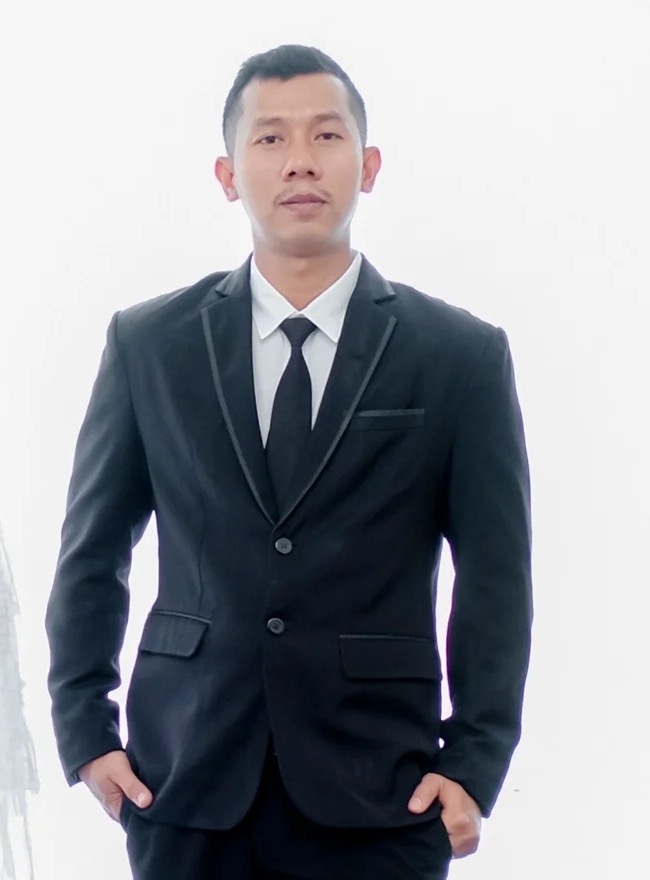
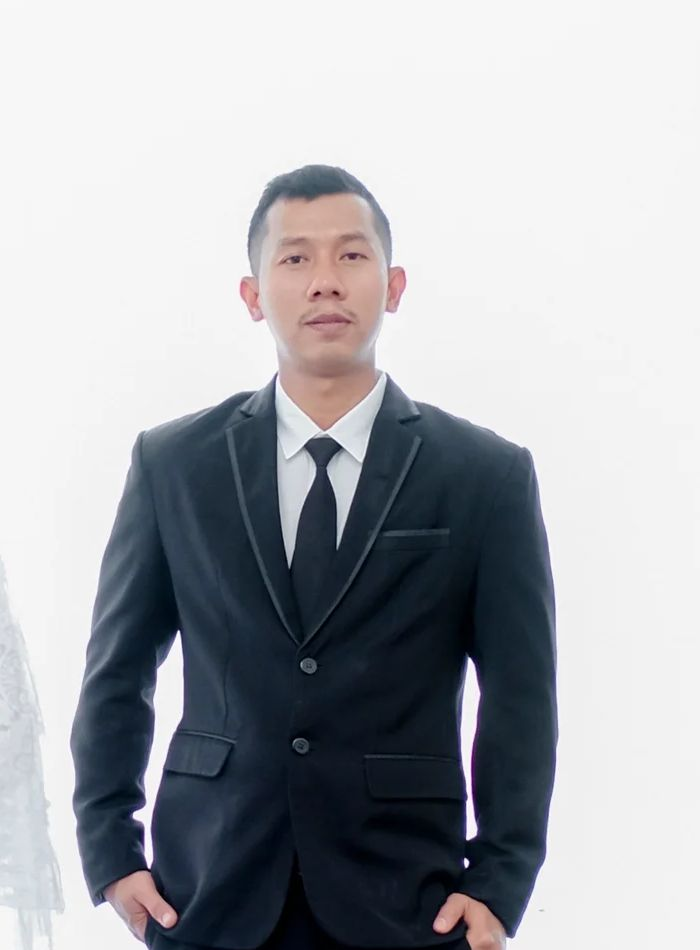
fix(ui): pixel-perfect locket heart masking, center bride portrait, and restore white dress code art

diff --git a/lib/laceAssets.ts b/lib/laceAssets.ts
@@ -21,6 +21,7 @@ export const LACE_ASSETS = {
   ourStoryPhoto: `${LACE_CDN}/our-story-oval.jpg`,
   locketLeft: `${LACE_CDN}/locket-left.jpg`,
   locketRight: `${LACE_CDN}/locket-right.jpg`,
[1 lines of base64/hex data omitted]
   
   // Cover (Click to open)
   coverComposite: `${LACE_CDN}/cover-01.png`,
@@ -34,7 +35,7 @@ export const LACE_ASSETS = {
   mountainCardHal1: `${LACE_CDN}/aset-hal1-04.png`,
   whiteRosesHal1: `${LACE_CDN}/aset-hal1-05.png`,
   heartMeshHal1: `${LACE_CDN}/aset-hal1-06.png`,
-  heartLocketHal1: `${LACE_CDN}/aset-hal1-07.png`,
+  heartLocketHal1: `${LACE_CDN}/aset-hal6-11.png`,
   
   // Page 2: Scripture Quote
   laceFrameHal2: `${LACE_CDN}/aset-hal2.png`,

diff --git a/app/components/RightSidebar.tsx b/app/components/RightSidebar.tsx
@@ -340,19 +340,30 @@ export default function RightSidebar({
 
               {/* Heart Silver Locket (Upper Right) with Couple Photos */}
               <div className="absolute top-[28%] right-[4%] w-[52%] z-20 filter drop-shadow-lg">
-                <div className="relative w-full">
+                <div className="relative w-full aspect-[3384/2028]">
                   <img
                     src={LACE_ASSETS.heartLocketHal1}
                     alt="Silver Locket"
-                    className="w-full h-auto object-contain relative z-20 pointer-events-none"
+                    className="w-full h-full object-contain relative z-20 pointer-events-none"
                   />
-                  {/* Photo in Left Heart */}
-                  <div className="absolute top-[18%] left-[11%] w-[38%] h-[68%] rounded-full overflow-hidden z-10">
-                    <img src={locketLeftImg} alt="Couple" className="w-full h-full object-cover" />
-                  </div>
-                  {/* Photo in Right Heart */}
-                  <div className="absolute top-[26%] right-[10%] w-[38%] h-[68%] rounded-full overflow-hidden z-10">
-                    <img src={locketRightImg} alt="Couple" className="w-full h-full object-cover" />
+                  {/* Photo container masked to the exact inner heart contours */}
+                  <div
+                    className="absolute inset-0 z-10 overflow-hidden"
+                    style={{
+                      WebkitMaskImage: `url(${LACE_ASSETS.locketMask})`,
+                      maskImage: `url(${LACE_ASSETS.locketMask})`,
+                      WebkitMaskSize: '100% 100%',
+                      maskSize: '100% 100%',
+                      WebkitMaskRepeat: 'no-repeat',
+                      maskRepeat: 'no-repeat',
+                    }}
+                  >
+                    <div className="absolute left-0 top-0 w-[50%] h-full">
+                      <img src={locketLeftImg} alt="Couple Left" className="w-full h-full object-cover" />
+                    </div>
+                    <div className="absolute left-[50%] top-0 w-[50%] h-full">
+                      <img src={locketRightImg} alt="Couple Right" className="w-full h-full object-cover" />
+                    </div>
                   </div>
                 </div>
               </div>
@@ -445,7 +456,7 @@ export default function RightSidebar({
                   className="absolute inset-0 w-full h-full object-contain z-20 pointer-events-none"
                 />
                 <div className="absolute inset-[15%] rounded-full overflow-hidden z-10">
-                  <img src={brideImg} alt="Andrea" className="w-full h-full object-cover" />
+                  <img src={brideImg} alt="Andrea" className="w-full h-full object-cover object-[center_20%]" />
                 </div>
               </div>
               <div className="flex flex-col text-left">
@@ -477,7 +488,7 @@ export default function RightSidebar({
                   className="absolute inset-0 w-full h-full object-contain z-20 pointer-events-none"
                 />
                 <div className="absolute inset-[15%] rounded-full overflow-hidden z-10">
-                  <img src={groomImg} alt="Daniel" className="w-full h-full object-cover" />
+                  <img src={groomImg} alt="Daniel" className="w-full h-full object-cover object-top" />
                 </div>
               </div>
             </div>
@@ -525,17 +536,29 @@ export default function RightSidebar({
             <div className="lace-pattern-top" />
 
             {/* Double Heart Silver Locket */}
-            <div className="relative w-48 sm:w-56 filter drop-shadow-xl mb-3">
+            <div className="relative w-52 sm:w-60 aspect-[3384/2028] filter drop-shadow-xl mb-3">
               <img
                 src={LACE_ASSETS.silverLocketHal5}
                 alt="Silver Locket"
-                className="w-full h-auto object-contain relative z-20 pointer-events-none"
+                className="w-full h-full object-contain relative z-20 pointer-events-none"
               />
-              <div className="absolute top-[18%] left-[11%] w-[38%] h-[68%] rounded-full overflow-hidden z-10">
-                <img src={locketLeftImg} alt="Couple" className="w-full h-full object-cover" />
-              </div>
-              <div className="absolute top-[26%] right-[10%] w-[38%] h-[68%] rounded-full overflow-hidden z-10">
-                <img src={locketRightImg} alt="Couple" className="w-full h-full object-cover" />
+              <div
+                className="absolute inset-0 z-10 overflow-hidden"
+                style={{
+                  WebkitMaskImage: `url(${LACE_ASSETS.locketMask})`,
+                  maskImage: `url(${LACE_ASSETS.locketMask})`,
+                  WebkitMaskSize: '100% 100%',
+                  maskSize: '100% 100%',
+                  WebkitMaskRepeat: 'no-repeat',
+                  maskRepeat: 'no-repeat',
+                }}
+              >
+                <div className="absolute left-0 top-0 w-[50%] h-full">
+                  <img src={locketLeftImg} alt="Couple Left" className="w-full h-full object-cover" />
+                </div>
+                <div className="absolute left-[50%] top-0 w-[50%] h-full">
+                  <img src={locketRightImg} alt="Couple Right" className="w-full h-full object-cover" />
+                </div>
               </div>
             </div>
 
@@ -731,7 +754,7 @@ export default function RightSidebar({
               <img
                 src={LACE_ASSETS.dressCodeLineArtHal7}
                 alt="Dress Code Illustration"
-                className="w-full h-full object-contain filter invert"
+                className="w-full h-full object-contain"
               />
             </div>
 
